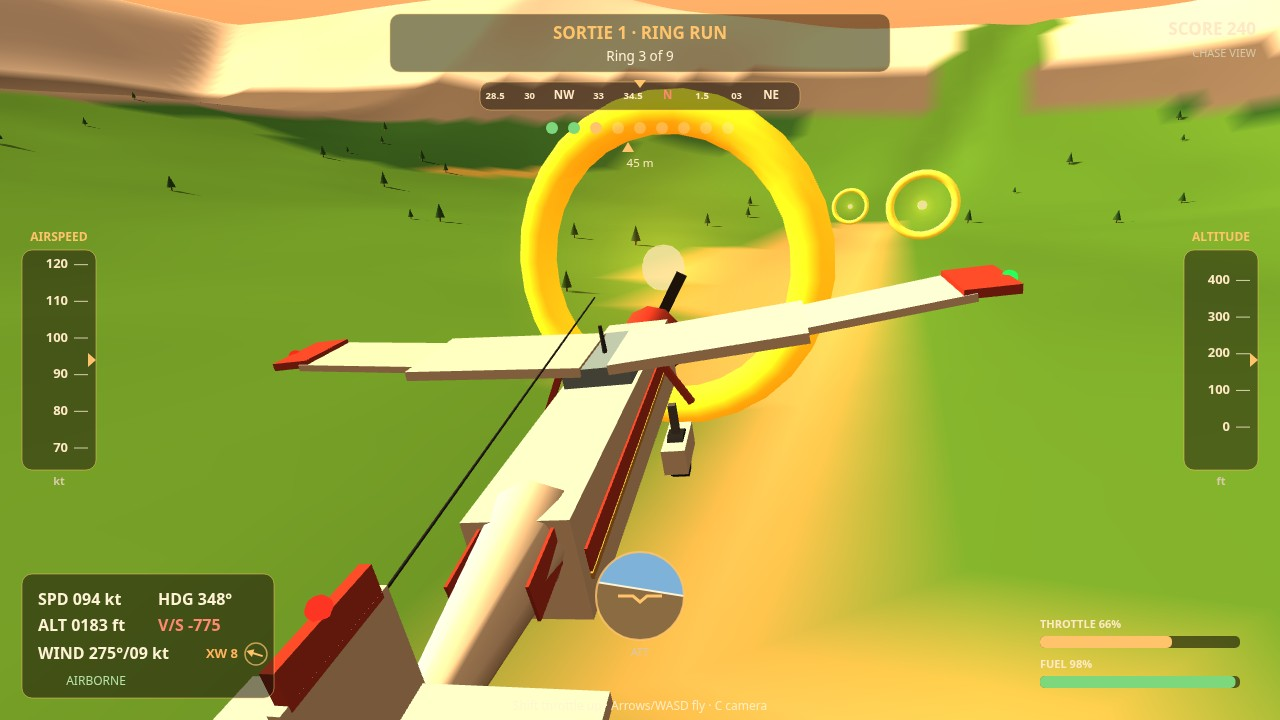
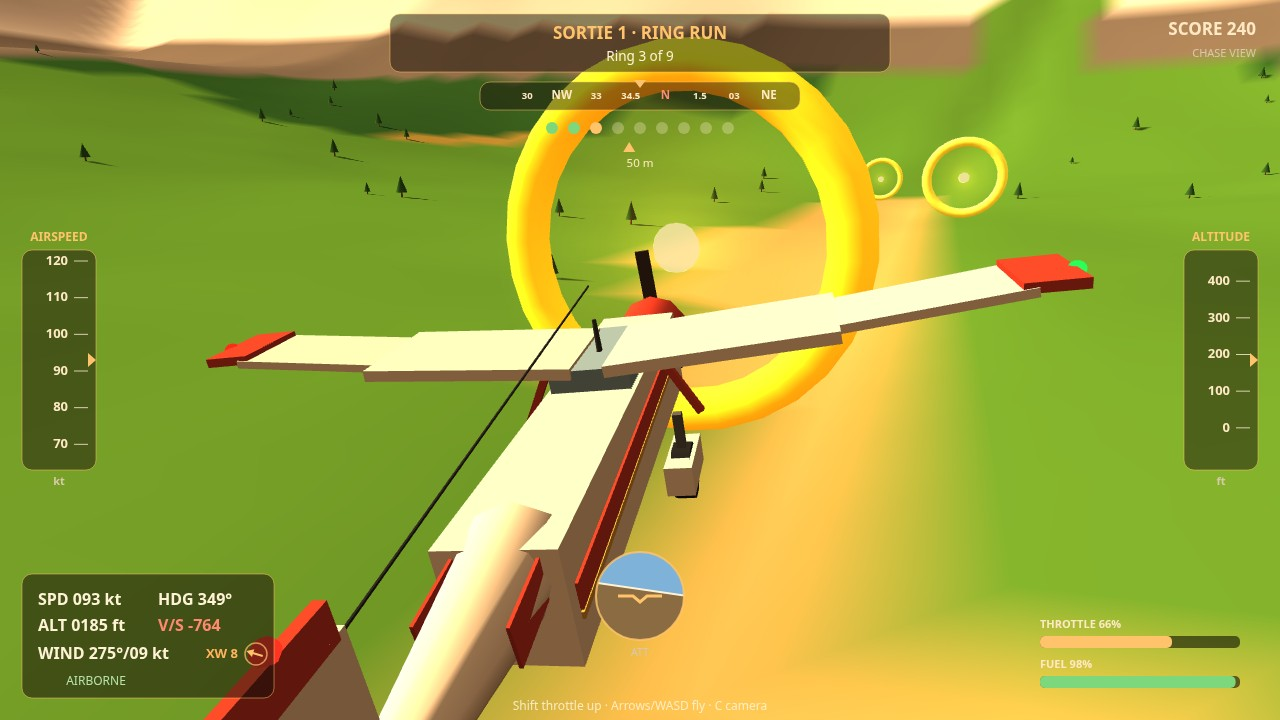
v3: surgical screenshot fixes — cockpit roll runs to SPD 074, tighter lens on rings (54deg, stop 50m) and drop (48deg, freeze 12 steps after release so the bag hangs large over the pad)

diff --git a/game/src/shots.js b/game/src/shots.js
@@ -77,30 +77,49 @@ export function poseShot(name, ctx) {
     // the windscreen — the moment rotation starts, the nose hides it.
     plane.placeAirborne(RUNWAY.x + 3, RUNWAY.height + 1.95, RUNWAY.z - 160, Math.PI, 23);
     plane.throttle = 1;
-    stepN(ctx, 3, () => ({ pitch: 0, roll: 0, throttleDelta: 0, brake: false }));
+    // v3: let the roll run long — 150 steps at full throttle winds the
+    // ASI up to ~SPD 078 (the ground-roll model's terminal is ~40 m/s)
+    // so the panel reads FLOWN, a breath from rotation, instead of
+    // parked at 46 kt. Still no pitch input: the runway stays framed.
+    stepN(ctx, 150, () => ({ pitch: 0, roll: 0, throttleDelta: 0, brake: false }));
     return true;
   }
   if (name === 'rings') {
     missions.beginSortie(0);
+    // v3: tighten the lens (62° → 54°) so the Kestrel fills clearly
+    // more of the frame at contact-sheet size; the nested-rings
+    // composition is unchanged. (48° was tried first and cropped
+    // both plane and ring — 54° is the widest tightening that keeps
+    // the ring whole.)
+    if (ctx.rig && ctx.rig.camera) {
+      ctx.rig.camera.fov = 54;
+      ctx.rig.camera.updateProjectionMatrix();
+    }
     // Two rings already threaded, the third dead ahead down the valley.
     missions.ringIndex = 2; missions.score = 240; missions.paintRings();
     const ring = missions.rings[2];
     const start = ring.clone(); start.z += 210; start.y += 16; start.x += 18;
     const heading = Math.atan2(ring.x - start.x, -(ring.z - start.z));
     plane.placeAirborne(start.x, start.y, start.z, heading, 33);
-    // Fly the real sim until the plane is ~46 m out — the ring large in
+    // Fly the real sim until the plane is ~50 m out — the ring large in
     // the centre of the frame but whole, its halo a hint instead of a
     // wash, the Kestrel big in the lower-centre foreground.
     for (let i = 0; i < 260; i++) {
       const controls = autopilot(plane, ring, 0.66);
       stepOnce(ctx, controls);
       if (plane.crashed) break;
-      if (plane.pos.distanceTo(ring) < 46) break;
+      if (plane.pos.distanceTo(ring) < 50) break;
     }
     return true;
   }
   if (name === 'drop') {
     missions.beginSortie(1);
+    // v3: same tighter lens as the rings scene — plane and falling
+    // bag both read bigger in the small contact-sheet cell.
+    if (ctx.rig && ctx.rig.camera) {
+      ctx.rig.camera.fov = 48;
+      ctx.rig.camera.updateProjectionMatrix();
+    }
     const t = missions.targets[0];
     // A low run-in (+38 m start, aiming +28 m over the pad) so the
     // village houses and pad read big in the lower frame, still well
@@ -109,8 +128,11 @@ export function poseShot(name, ctx) {
     const heading = Math.atan2(t.pos.x - start.x, -(t.pos.z - start.z));
     plane.placeAirborne(start.x, start.y, start.z, heading, 29);
     // Fly the real sim in, release the bag over the pad, then freeze
-    // ~25 steps (~0.8 s) later: plane large in frame, the bag visibly
-    // HANGING below the plane, the village pad still in frame below.
+    // just 12 steps (~0.4 s) later — v3: the bag is still close under
+    // the plane and LARGE in frame, the pad still below, and the
+    // objective line up top already reads "bags 2". (No centre-screen
+    // message: main.js deliberately clears missions.message in shot
+    // mode, so the falling bag itself tells the story.)
     let dropped = false;
     let sinceDrop = 0;
     for (let i = 0; i < 420; i++) {
@@ -120,7 +142,7 @@ export function poseShot(name, ctx) {
       if (!dropped && d < 55) { missions.dropBag(plane); dropped = true; }
       stepOnce(ctx, controls);
       if (plane.crashed) break;
-      if (dropped && ++sinceDrop >= 25) break;
+      if (dropped && ++sinceDrop >= 12) break;
     }
     return true;
   }
